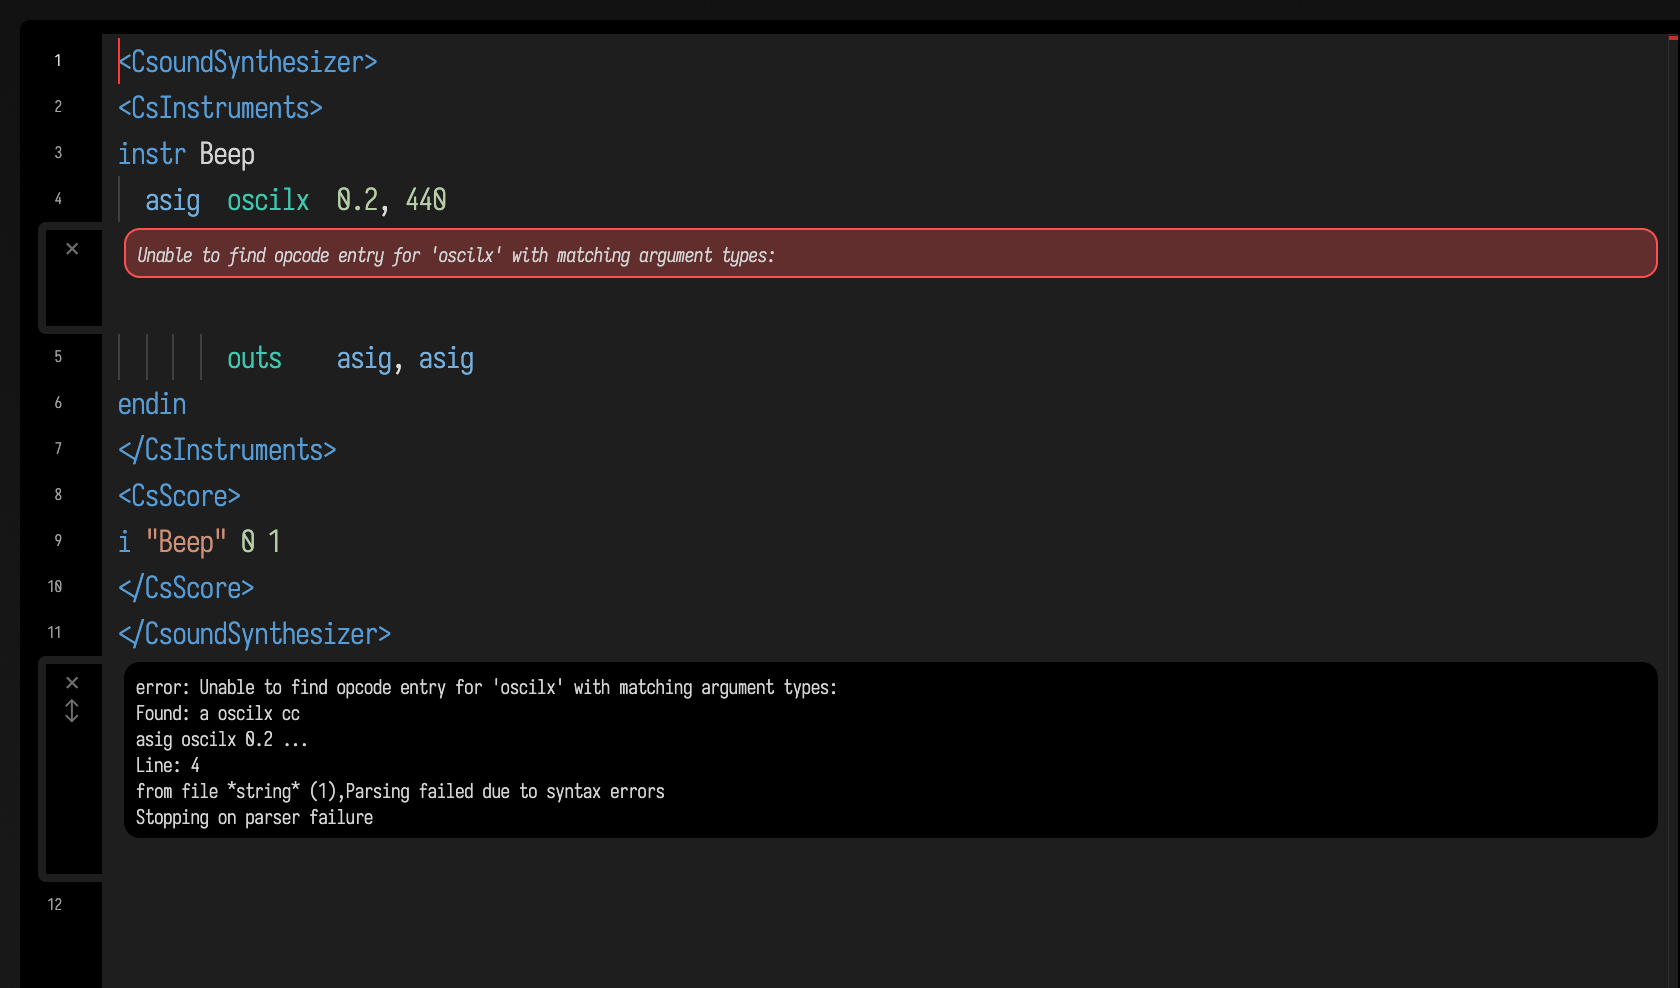
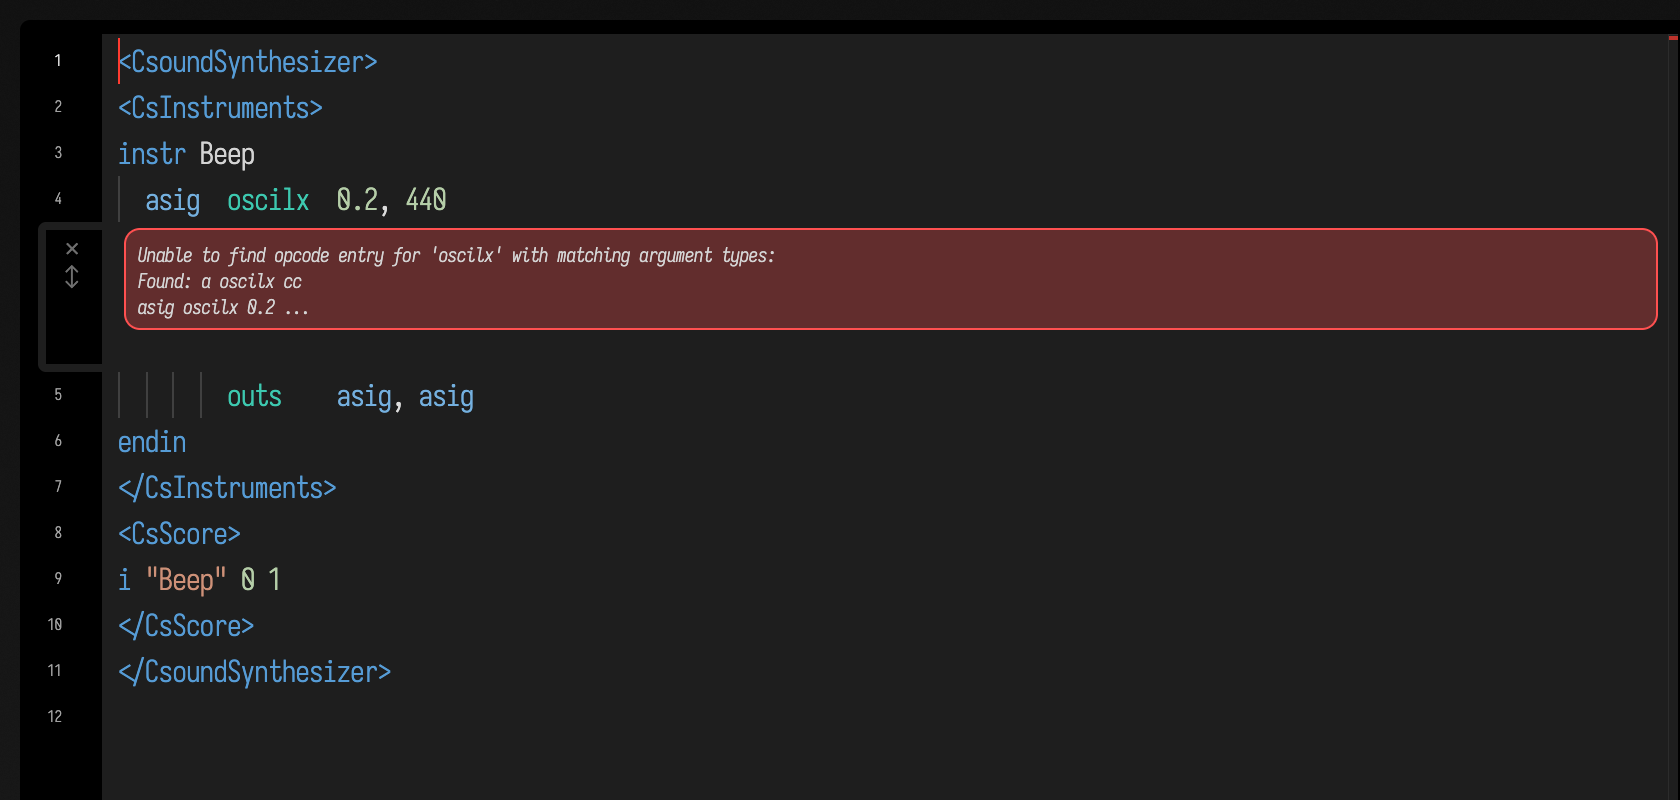
Csound errors: one diagnostic, one line-anchored message
problemsIn groups an error: line with its continuation lines (up to the
next error or the parser summary) into one Problem, reads the line
number from them, and drops the "Line: 4" / "from file *string*" noise.
The "Parsing failed / Stopping on parser failure" summary is kept only
when nothing could be placed on a line. A placed error is no longer
also printed as a plain block below the box (launch, Alt-Enter and
csoundOffline paths). CsoundTest pins the grouping on the exact oscilx
output and on a syntax error. The typo box re-run live on 9611 shows
one marker holding the message, "Found: a oscilx cc" and the offending
text; error.png recaptured.

diff --git a/src/jvmMain/kotlin/afield/csound/CsoundInstance.kt b/src/jvmMain/kotlin/afield/csound/CsoundInstance.kt
@@ -392,10 +392,12 @@ class CsoundInstance(
         before.forEach { pushLine(it) }
         val status = Arena.ofConfined().use { a -> CsoundNative.compileOrc(cs, a.allocateFrom(normalise(orchestra))) }
         val printed = drainMessages()
-        printed.forEach { pushLine(it) }
         // Csound keeps counting orchestra lines from where the CSD's orchestra began, so a live
         // compile's lines are offset by the same CSD_ORC_LINE as the first one's.
-        CompileResult(status == 0, problemsIn(printed).map { if (it.line > CSD_ORC_LINE) it.copy(line = it.line - CSD_ORC_LINE) else it }, printed)
+        val problems = problemsIn(printed).map { if (it.line > CSD_ORC_LINE) it.copy(line = it.line - CSD_ORC_LINE) else it }
+        // An error that has its own line marker is not printed a second time below the box.
+        if (problems.none { it.line > 0 }) printed.forEach { pushLine(it) }
+        CompileResult(status == 0, problems, printed)
     }
 
     /** Read score text into the running Csound now: its events start relative to the current score time. */
@@ -694,15 +696,34 @@ class CsoundInstance(
          */
         fun problemsIn(printed: List<String>): List<Problem> {
             val out = ArrayList<Problem>()
-            for ((k, raw) in printed.withIndex()) {
-                val line = raw.trim()
-                val isError = line.startsWith("error:", ignoreCase = true) || line.contains("syntax error") ||
-                    line.startsWith("INIT ERROR") || line.contains("not found")
-                if (!isError || line.contains("Parsing failed")) continue
-                val lookahead = (k until minOf(printed.size, k + 6)).map { printed[it] }
-                val n = lookahead.firstNotNullOfOrNull { lineRe.find(it.lowercase())?.groupValues?.get(1)?.toIntOrNull() } ?: -1
-                out += Problem(line.removePrefix("error:").trim(), n)
+            val summaries = ArrayList<String>()
+            fun isStart(t: String) = t.startsWith("error:", ignoreCase = true) || t.startsWith("INIT ERROR") ||
+                (t.contains("syntax error") && !t.contains("Parsing failed"))
+            fun isSummary(t: String) = t.contains("Parsing failed") || t.startsWith("Stopping on parser failure")
+            var k = 0
+            while (k < printed.size) {
+                val first = printed[k].trim()
+                if (isSummary(first)) { summaries += first.substringAfter("),").trim(); k++; continue }
+                if (!isStart(first) && !first.contains("not found")) { k++; continue }
+                // One diagnostic: the error line and its continuation lines, up to the next error or
+                // the parser's summary. The line number is read from them and not repeated in the text.
+                val body = ArrayList<String>()
+                body += first.removePrefix("error:").trim()
+                var n = lineRe.find(first.lowercase())?.groupValues?.get(1)?.toIntOrNull() ?: -1
+                k++
+                while (k < printed.size) {
+                    val t = printed[k].trim()
+                    if (isStart(t) || isSummary(t)) break
+                    k++
+                    if (t.isEmpty()) continue
+                    val ln = lineRe.find(t.lowercase())?.groupValues?.get(1)?.toIntOrNull()
+                    if (ln != null && n < 0) n = ln
+                    if (Regex("""^(line:?\s*\d+:?|from file .*)$""", RegexOption.IGNORE_CASE).matches(t)) continue
+                    body += t
+                }
+                out += Problem(body.joinToString("\n"), n)
             }
+            if (out.isEmpty() && summaries.isNotEmpty()) out += Problem(summaries.distinct().joinToString("\n"), -1)
             return out.distinctBy { it.message to it.line }
         }
     }

diff --git a/src/jvmTest/kotlin/afield/csound/CsoundTest.kt b/src/jvmTest/kotlin/afield/csound/CsoundTest.kt
@@ -174,4 +174,34 @@ class CsoundTest {
         assertEquals(afield.four.synth.CsoundChannel("freq", 1, 220.0, 55.0, 880.0), chans[0])
         assertTrue(chans[0].isInput && !chans[1].isInput)
     }
+
+    @Test fun oneDiagnosticIsOneProblemOnItsLine() {
+        // Csound 6.18.1's own output for `asig oscilx 0.2, 440` on line 4, as the typo demo box prints it.
+        val printed = listOf(
+            "error:  Unable to find opcode entry for 'oscilx' with matching argument types:",
+            "",
+            "Found: a oscilx cc",
+            "       asig oscilx 0.2 ...",
+            "Line: 4",
+            " from file *string* (1),Parsing failed due to syntax errors",
+            "Stopping on parser failure",
+        )
+        assertEquals(listOf(CsoundInstance.Problem(
+            "Unable to find opcode entry for 'oscilx' with matching argument types:\nFound: a oscilx cc\nasig oscilx 0.2 ...", 4)),
+            CsoundInstance.problemsIn(printed))
+    }
+
+    @Test fun aSyntaxErrorKeepsItsOffendingTextAndTheSummaryOnlyWhenNothingIsPlaced() {
+        val syntax = listOf(
+            "error: syntax error, unexpected '*'  (token \"* \")",
+            " line 3:",
+            " >>>   a2 = a1 +*  <<<",
+            "Parsing failed due to 1 syntax error!",
+            "Stopping on parser failure",
+        )
+        assertEquals(listOf(CsoundInstance.Problem("syntax error, unexpected '*'  (token \"* \")\n>>>   a2 = a1 +*  <<<", 3)),
+            CsoundInstance.problemsIn(syntax))
+        assertEquals(listOf(CsoundInstance.Problem("Parsing failed due to 1 syntax error!\nStopping on parser failure", -1)),
+            CsoundInstance.problemsIn(listOf("Parsing failed due to 1 syntax error!", "Stopping on parser failure")))
+    }
 }

diff --git a/src/jvmMain/kotlin/afield/csound/CsoundLanguage.kt b/src/jvmMain/kotlin/afield/csound/CsoundLanguage.kt
@@ -92,7 +92,8 @@ class CsoundExecution(val inside: Box) : BoxExecution {
             val state = try {
                 open(inside, doc)
             } catch (e: CsoundCompileError) {
-                for (line in e.printed) runCatching { inside.println(line) }
+                // One error, one message: a diagnostic placed on a line is not printed again below.
+                if (e.problems.none { it.line > 0 }) for (line in e.printed) runCatching { inside.println(line) }
                 for (p in e.problems) {
                     runCatching { inside.error(p.message, "code", if (p.line > 0) doc.orchestra.firstLine + p.line else execute.line + 1) }
                 }

diff --git a/src/jvmMain/kotlin/afield/four/synth/CsoundBox.kt b/src/jvmMain/kotlin/afield/four/synth/CsoundBox.kt
@@ -91,7 +91,7 @@ private fun Box.compileForBox(orchestra: String, make: () -> CsoundInstance): Cs
         make().also { cs -> cs.poll() }
     } catch (e: CsoundCompileError) {
         // Printed first, marked last: the editor clears a box's marks whenever the box prints.
-        for (p in e.problems) runCatching { println("Csound: ${p.message}") }
+        for (p in e.problems) if (p.line <= 0) runCatching { println("Csound: ${p.message}") }
         for (p in e.problems) if (p.line > 0) runCatching { error(p.message, "code", offset + p.line) }
         throw e
     }

diff --git a/public/docs/csound.md b/public/docs/csound.md
@@ -138,7 +138,7 @@ not counted.
 
 ### Errors
 
-```diffstatic_runner {data-lang=csound screenshot="assets/csound/error.png" capture="editor" outputs="inline" expect-error=true requires="csound" wait="4" padding="10" timeout="180" embed=true name="csound-error" w="900" h="300" alt="A Csound box whose instr Beep uses oscilx. Under that line, on line 4, a red marker reads: Unable to find opcode entry for 'oscilx' with matching argument types. Csound's own messages are printed below the box."}
+```diffstatic_runner {data-lang=csound screenshot="assets/csound/error.png" capture="editor" outputs="inline" expect-error=true requires="csound" wait="4" padding="10" timeout="180" embed=true name="csound-error" w="900" h="300" alt="A Csound box whose instr Beep uses oscilx. Under that line, on line 4, one red marker holds Csound's whole diagnostic: Unable to find opcode entry for 'oscilx' with matching argument types:, then Found: a oscilx cc, then asig oscilx 0.2 …. Nothing is repeated below the box."}
 <CsoundSynthesizer>
 <CsInstruments>
 instr Beep
